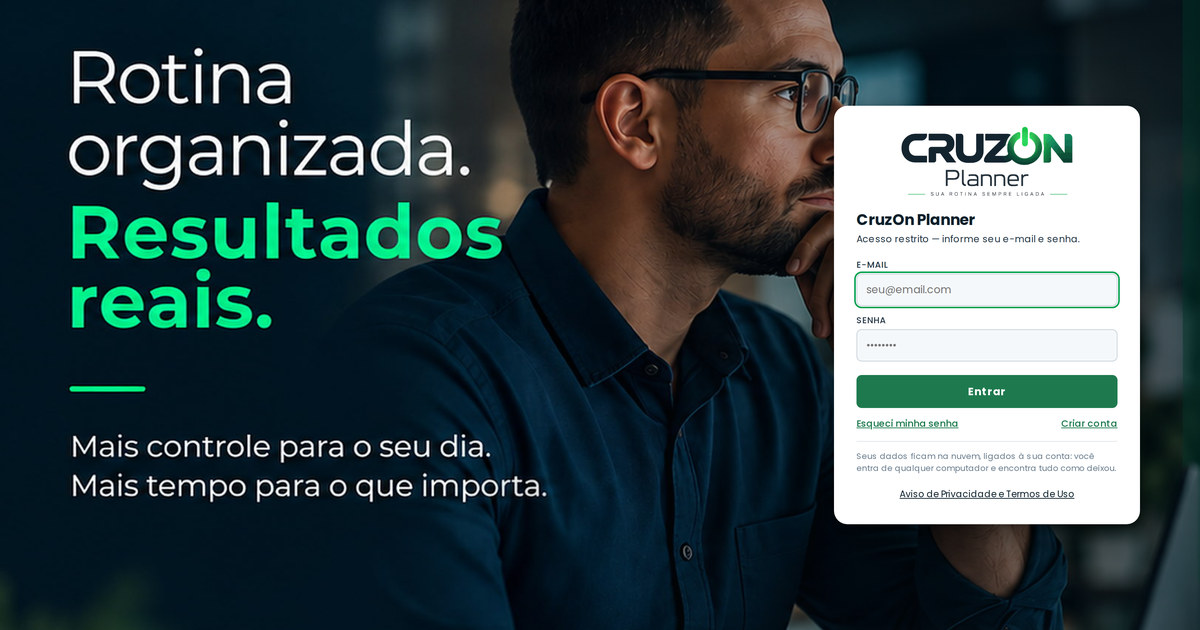
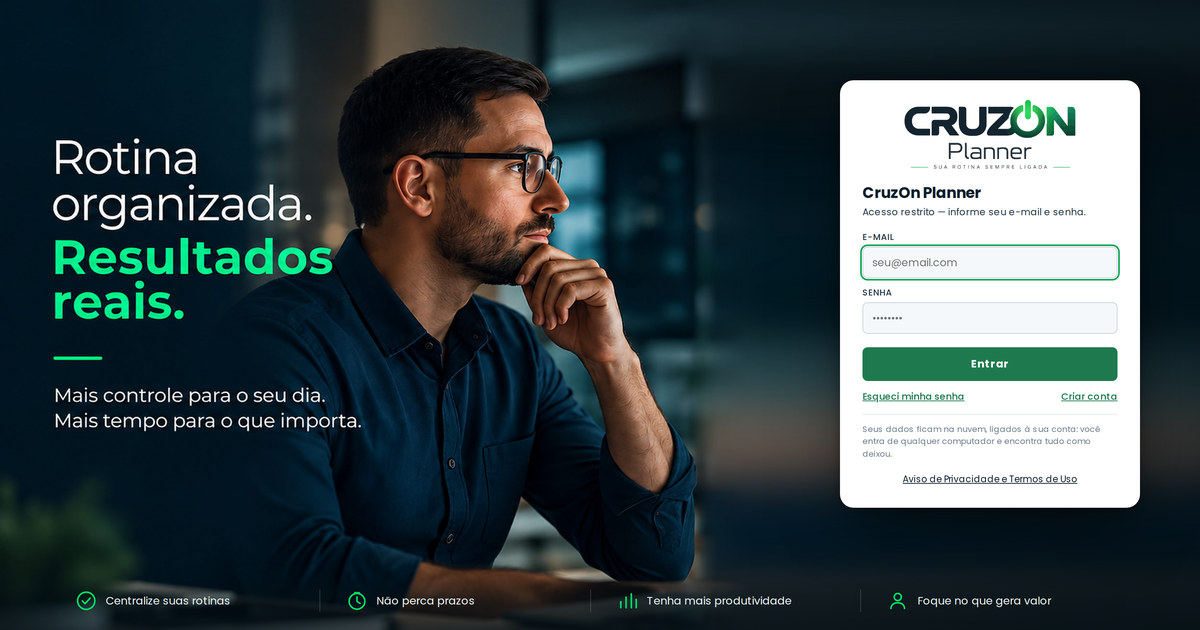
Add files via upload

diff --git a/index.html b/index.html
@@ -86,21 +86,33 @@ button,input,select,textarea{font:inherit;color:inherit} button{cursor:pointer} 
 .hidden{display:none !important}
 
 /* ---------- LOGIN ---------- */
-#login{position:fixed;inset:0;z-index:100;display:flex;align-items:center;justify-content:flex-end;padding:4vh 5vw;overflow:auto;background-color:#07131c}
+#login{position:fixed;inset:0;z-index:100;display:flex;flex-direction:column;overflow:auto;background-color:#07131c}
 .lgart{position:fixed;inset:0;overflow:hidden;z-index:0;background-color:#07131c}
-.lgart::before{content:"";position:absolute;inset:0;background-image:var(--lgbg);background-size:cover;background-position:center;transform:scale(1.55);transform-origin:2% 48%}
-.lgart::after{content:"";position:absolute;inset:0;background-image:linear-gradient(90deg,rgba(4,16,22,0) 38%,rgba(4,16,22,.30) 64%,rgba(4,16,22,.58) 100%)}
-.lgpane{position:relative;z-index:1;flex:0 0 auto;width:min(408px,100%);background:var(--surface);border-radius:18px;padding:26px 30px 20px;box-shadow:0 34px 80px -18px rgba(0,0,0,.66),0 2px 12px rgba(0,0,0,.28)}
+.lgart::before{content:"";position:absolute;inset:0;background-image:var(--lgbg);background-size:cover;background-position:center center}
+.lgart::after{content:"";position:absolute;inset:0;background-image:linear-gradient(90deg,rgba(4,16,22,0) 46%,rgba(4,16,22,.26) 72%,rgba(4,16,22,.50) 100%)}
+.lgmid{position:relative;z-index:1;flex:1 1 auto;display:flex;align-items:center;justify-content:flex-end;padding:3.4vh 5vw 1vh}
+.lgpane{flex:0 0 auto;width:min(400px,100%);background:var(--surface);border-radius:18px;padding:24px 30px 18px;box-shadow:0 34px 80px -18px rgba(0,0,0,.66),0 2px 12px rgba(0,0,0,.28)}
 .lgcard{width:100%;background:transparent;border-radius:0;padding:0;box-shadow:none}
+.lgbenefwrap{position:relative;z-index:1;flex:0 0 auto;width:100%;background:linear-gradient(180deg,rgba(4,16,22,0) 0%,rgba(4,16,22,.45) 45%,rgba(4,16,22,.72) 100%)}
+.lgbenef{display:flex;align-items:center;justify-content:space-between;gap:8px;padding:22px 5vw 24px;max-width:1560px;width:100%;margin:0 auto}
+.bf{display:flex;align-items:center;gap:11px;color:#EAF2F0;font-size:clamp(11.5px,1.05vw,14.5px);font-weight:500;line-height:1.25;flex:1 1 0;min-width:0}
+.bf svg{width:clamp(24px,2.1vw,30px);height:clamp(24px,2.1vw,30px);flex:0 0 auto;stroke:#00E06A;fill:none;stroke-width:1.7;stroke-linecap:round;stroke-linejoin:round}
+.bf + .bf{border-left:1px solid rgba(255,255,255,.18);padding-left:min(3.4vw,34px)}
 .lgcard .mark{display:block;width:min(228px,72%);height:auto;margin:2px auto 18px}
+@media(max-width:1040px){
+  .lgbenef{flex-wrap:wrap;justify-content:center;gap:10px 18px;padding:10px 20px 18px}
+  .bf{flex:0 0 calc(50% - 22px);font-size:12px}
+  .bf + .bf{border-left:0;padding-left:0}
+}
 @media(max-width:900px){
-  #login{justify-content:center;padding:18px 16px}
-  .lgart::before{transform:none;background-position:30% 26%}
-  .lgart::after{background:linear-gradient(180deg,rgba(6,20,28,.42) 0%,rgba(6,20,28,.66) 55%,rgba(6,20,28,.84) 100%)}
-  .lgpane{width:100%;max-width:520px;border-radius:16px;padding:22px 20px 20px}
+  .lgmid{justify-content:center;padding:16px}
+  .lgart::before{background-position:34% 28%}
+  .lgart::after{background:linear-gradient(180deg,rgba(6,20,28,.44) 0%,rgba(6,20,28,.66) 55%,rgba(6,20,28,.86) 100%)}
+  .lgpane{width:100%;max-width:520px;border-radius:16px;padding:22px 20px 18px}
   .lgcard .mark{width:min(200px,64%)}
 }
-@media(min-width:901px) and (max-height:720px){#login{align-items:flex-start;padding-top:3vh}}
+@media(max-width:560px){ .lgbenefwrap{display:none} }
+@media(min-width:901px) and (max-height:700px){ .lgbenefwrap{display:none} .lgmid{align-items:flex-start;padding-top:3vh} }
 #login h1{font-size:20px;margin:0 0 2px;letter-spacing:-.01em}
 #login .sub{color:var(--ink-2);font-size:12.5px;margin:0 0 16px}
 #login label{display:block;font-size:11.5px;font-weight:600;color:var(--ink-2);margin:11px 0 4px;text-transform:uppercase;letter-spacing:.04em}
@@ -398,6 +410,7 @@ html[data-theme="dark"] .st-soon{color:#f6cf6a} html[data-theme="dark"] .st-run{
 <!-- ===================== LOGIN ===================== -->
 <div id="login">
   <div class="lgart" aria-hidden="true"></div>
+  <div class="lgmid">
   <div class="lgpane">
   <div class="lgcard">
     <img class="mark" id="lgLogo" alt="Logotipo">
@@ -425,6 +438,13 @@ html[data-theme="dark"] .st-soon{color:#f6cf6a} html[data-theme="dark"] .st-run{
       <p class="note" style="border:0;padding-top:6px;margin-top:6px;text-align:center"><button type="button" class="lgpdlnk" id="lgpdAbrirLogin">Aviso de Privacidade e Termos de Uso</button></p>
   </div>
   </div>
+  </div>
+  <div class="lgbenefwrap"><div class="lgbenef" aria-hidden="true">
+    <div class="bf"><svg viewBox="0 0 24 24"><circle cx="12" cy="12" r="9.2"/><path d="M7.8 12.2l2.9 2.9 5.5-5.9"/></svg><span>Centralize suas rotinas</span></div>
+    <div class="bf"><svg viewBox="0 0 24 24"><circle cx="12" cy="12.6" r="8.4"/><path d="M12 7.9v4.9l3.3 2"/><path d="M9.6 3.4h4.8"/></svg><span>Não perca prazos</span></div>
+    <div class="bf"><svg viewBox="0 0 24 24"><path d="M4.6 19.4V13"/><path d="M10.2 19.4V8.2"/><path d="M15.8 19.4V4.6"/><path d="M21 19.4V10.6"/></svg><span>Tenha mais produtividade</span></div>
+    <div class="bf"><svg viewBox="0 0 24 24"><circle cx="12" cy="8" r="3.8"/><path d="M4.8 20.2c0-3.7 3.2-6.1 7.2-6.1s7.2 2.4 7.2 6.1"/></svg><span>Foque no que gera valor</span></div>
+  </div></div>
 </div>
 
 
@@ -808,6 +828,7 @@ const openJSON=async(b,k)=>JSON.parse(DEC.decode(await open_(b,k)));
 const SB_URL="https://qflpwxyyzimlmnizgltl.supabase.co";
 const SB_KEY="sb_publishable_mRfAlyPRU2duHz0Y1ibRVg_zOmYA_xi";
 const SESSKEY="cruzon_sessao_v1", TKEY="planner_theme_v2", CACHEK="cruzon_cache_v1", CFGK="cruzon_app_v1";
+const APP_OFICIAL = "CruzOn Planner";   /* nome do produto: nunca usa o nome personalizado do usuario */
 let SESSION=null, ME=null, PERFIL=null, V=null, APP={app:{}};
 let CURWEEK=iso(mondayOf(new Date())), VIEW="dash", OFFLINE=false;
 
@@ -854,7 +875,7 @@ function normalizeV(){
 function loadCfg(){
   APP={app:{name:"CruzOn Planner",logo:"",noLogo:false,showName:false,colors:{...DEFCOLORS}}};
   try{const r=localStorage.getItem(CFGK); if(r) APP.app={...APP.app,...JSON.parse(r)};}catch(e){}
-  if(APP.app.name==="CRUZON Planner RH"||APP.app.name==="CRUZON Planner"){APP.app.name="CruzOn Planner";persist();}
+  if(APP.app.name==="CRUZON Planner RH"||APP.app.name==="CRUZON Planner"){APP.app.name=APP_OFICIAL;persist();}
 }
 function persist(){ try{localStorage.setItem(CFGK,JSON.stringify(APP.app));}catch(e){} }
 
@@ -997,7 +1018,7 @@ function logoSrc(forDark){
 function applyBranding(){
   const th=document.documentElement.getAttribute("data-theme"), dark=th==="dark";
   const pess=(V&&V.prefs&&V.prefs.nomeExib!=null)?String(V.prefs.nomeExib).trim():null;
-  const nm=(pess!==null&&pess!=="")?pess:(APP.app.name||"CruzOn Planner");
+  const nm=(pess!==null&&pess!=="")?pess:(APP.app.name||APP_OFICIAL);
   document.title=nm; $("#lgAppName").textContent=nm;
   const ini=nm.trim().split(/\s+/).slice(0,2).map(w=>w[0]).join("").toUpperCase()||"CP";
   const hdrDark=(th==="brand"||th==="dark"), top=$("#topLogo"), src=hdrLogo(hdrDark);
@@ -1034,7 +1055,7 @@ let LGMODE="login";   // login | signup | forgot | reset
 function lgMsg(el,txt){ const e=$(el); if(!txt){e.classList.add("hidden");return;} e.textContent=txt; e.classList.remove("hidden"); }
 function setupLogin(){
   const m=LGMODE;
-  $("#lgAppName").textContent=APP.app.name||"CruzOn Planner";
+  $("#lgAppName").textContent=APP_OFICIAL;
   $("#lgNameWrap").classList.toggle("hidden",m!=="signup");
   $("#lgEmailWrap").classList.toggle("hidden",m==="reset");
   $("#lgPassWrap").classList.toggle("hidden",m==="forgot");
@@ -1309,7 +1330,7 @@ function zapLink(){
   const n = (CFGAPP.whatsapp || "").replace(/\D/g, "");
   if(!n) return "";
   const quem = (ME && ME.email) ? (" Sou " + (ME.name || "") + " (" + ME.email + ").") : "";
-  const txt = "Olá! Estou usando o " + (APP.app.name || "CruzOn Planner") + "." + quem;
+  const txt = "Olá! Estou usando o " + APP_OFICIAL + "." + quem;
   return "https://wa.me/" + n + "?text=" + encodeURIComponent(txt);
 }
 async function enviaRecado(texto){
@@ -1351,7 +1372,7 @@ async function renderRecados(){
   alvo.innerHTML = lista.map(r => {
     const q = (CFGAPP.whatsapp || "").replace(/\D/g, "");
     const resp = r.email ? '<a class="btn sm" href="mailto:' + esc(r.email) +
-      '?subject=' + encodeURIComponent("Sobre o seu recado no " + (APP.app.name || "CruzOn Planner")) + '">Responder por e-mail</a>' : "";
+      '?subject=' + encodeURIComponent("Sobre o seu recado no " + APP_OFICIAL) + '">Responder por e-mail</a>' : "";
     return '<div class="recado' + (r.lido ? "" : " novo") + '">' +
       '<div class="cab"><b>' + esc(r.nome || "—") + '</b><span>' + esc(r.email || "") + '</span>' +
       '<span style="margin-left:auto">' + new Date(r.criado_em).toLocaleString("pt-BR") + '</span></div>' +
@@ -1522,7 +1543,8 @@ $$("[data-nav]").forEach(b=>b.addEventListener("click",()=>{
 const VIEWNAMES={dash:"Dashboard da semana",week:"Planejamento semanal",rec:"Obrigações e rotinas recorrentes",hist:"Histórico de atividades",team:"Painel da equipe",cfg:"Ajustes"};
 function fillPrintHead(){
   if(!ME) return;
-  const nome=(APP.app&&APP.app.name)||"CruzOn Planner";
+  const pess=(V&&V.prefs&&V.prefs.nomeExib)?String(V.prefs.nomeExib).trim():"";
+  const nome=APP_OFICIAL+(pess?" · "+pess:"");
   const rel=VIEWNAMES[VIEW]||"Relatório";
   const per=(VIEW==="dash"||VIEW==="week"||VIEW==="team")?" — semana de "+weekLabel(CURWEEK):"";
   $("#phTitle").textContent=nome;
